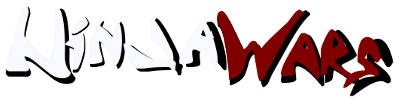
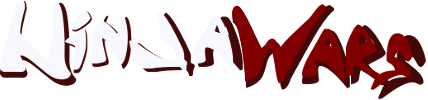
Tutorial: Some html cleanup, Index: Image shadows not fully black.

diff --git a/deploy/www/tutorial.php b/deploy/www/tutorial.php
@@ -18,8 +18,6 @@ $progression = render_template('progression.tpl', array('WEB_ROOT'=>WEB_ROOT, 'I
 echo $progression;
 ?>
 
-For more detail, read the faqs below, or see the <a href="about.php">About Ninjawars</a> topics or <a href="http://ninjawars.pbwiki.com">the Wiki</a>.
-
 <hr>
 
 <span class="brownHeading">How do I level up ?</span><br>
@@ -49,7 +47,9 @@ Find a clan you want to join or a clanleader you want to follow and then click o
 <span class="brownHeading">How can I communicate with other players?</span><br>
 You can send mail to specific players using the Mail link on the left side of screen or from a players profile page.  You can send mail to all your clan members from the Clan link if you have a clan.  To check your own messages go to Mail and click Inbox.  You can post public messages to players on the chat board.<hr>
 
-For more detail see: <a href="about.php">the "About" page</a> or <a href="http://ninjawars.pbwiki.com">the Wiki</a>.
+<p>
+	For more detail, see the <a href="http://ninjawars.pbworks.com">the Wiki</a>.
+</p>
 
 <?php
 include SERVER_ROOT."interface/footer.php";
